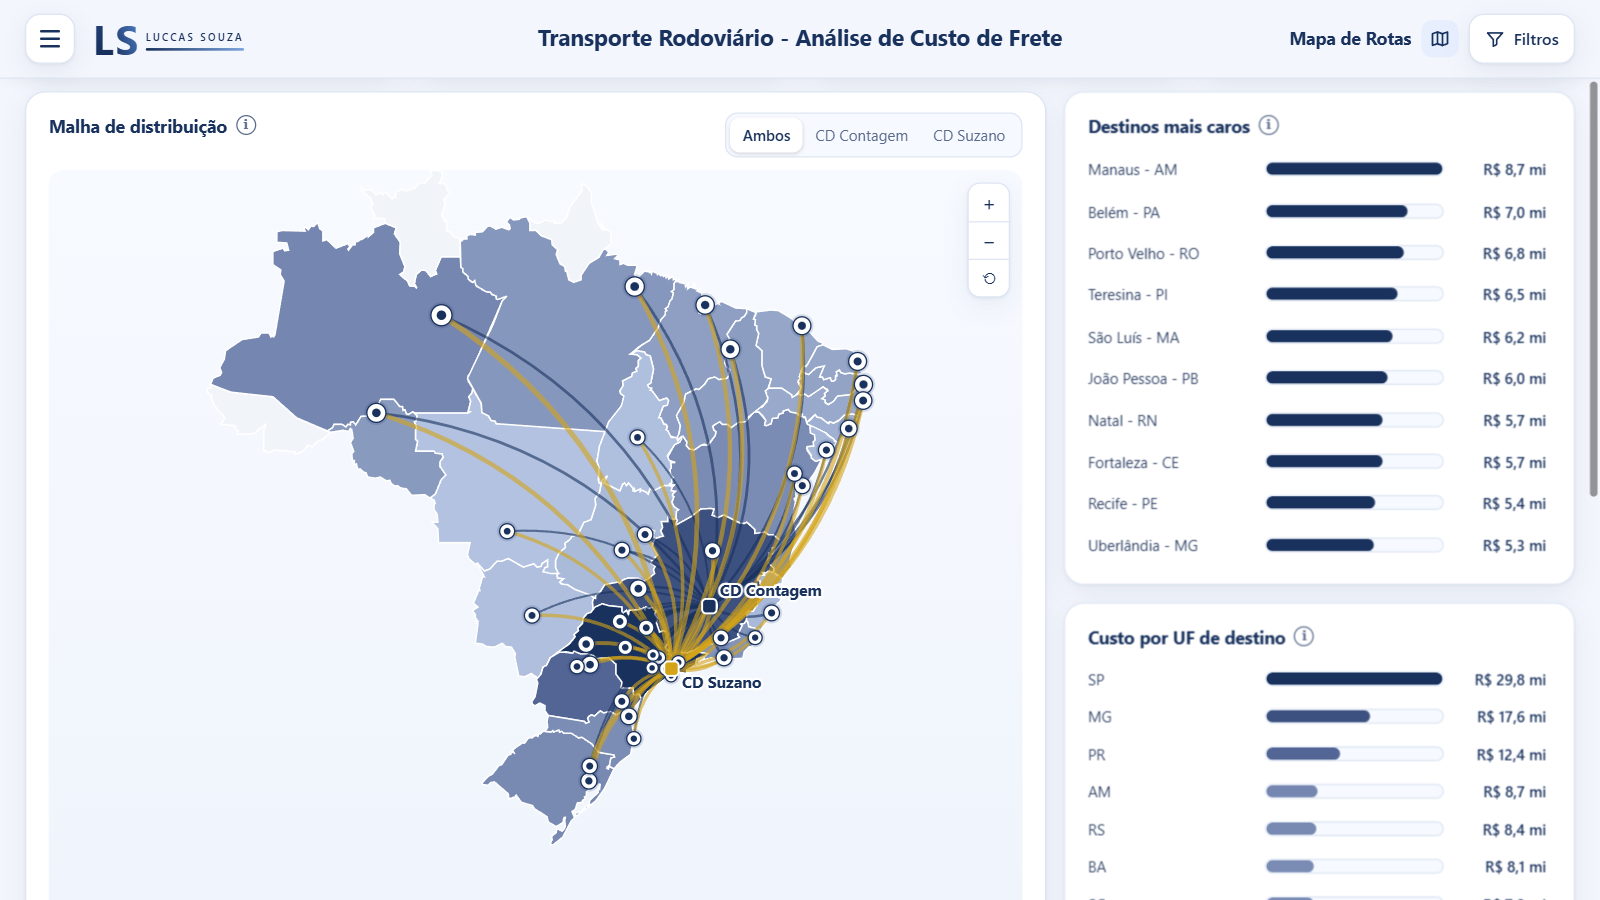
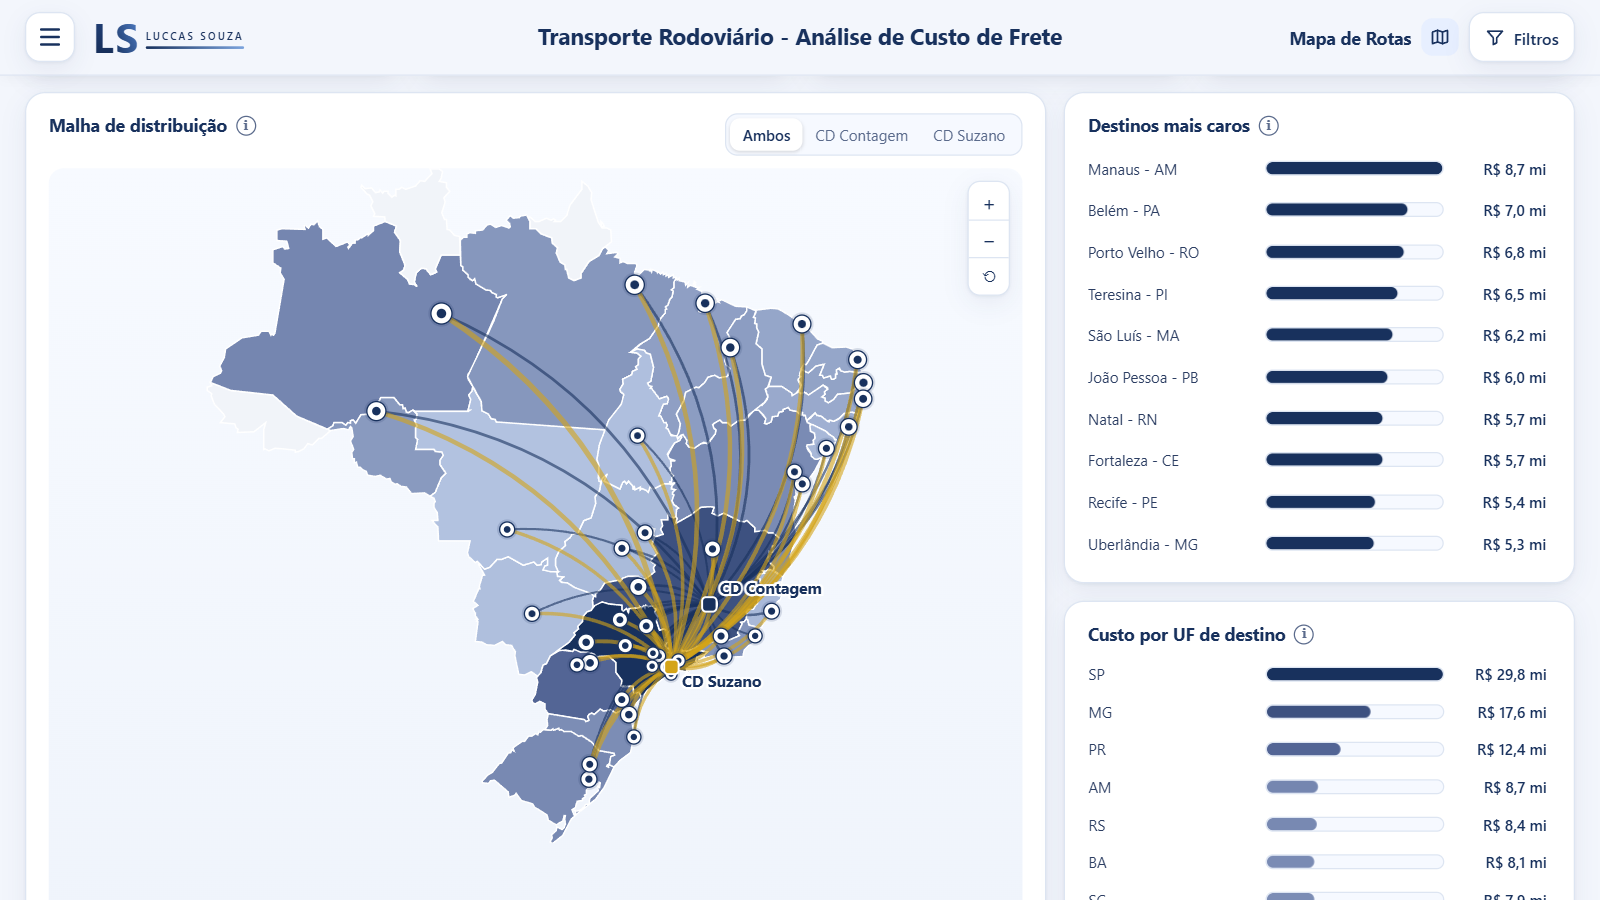
Add files via upload

diff --git a/README.md b/README.md
@@ -79,7 +79,7 @@ Com o denominador corrigido, o custo dela sobe de R$ 4,34 para R$ 6,05 por km ca
 R$ 8,77 do contratado. A vantagem cai de 102% para 44,9%, menos da metade do que a conta pelo km
 rodado indica. Uma decisão de investimento em frota deve partir do valor corrigido.
 
-![Frota e ociosidade: a comparação ingênua (102%) contra a comparação justa (44,9%)](frota_ociosidade.png)
+![Frota e ociosidade: diferença de custo pelo km rodado (102%) e pelo km carregado (44,9%)](frota_ociosidade.png)
 
 ### Quanto custa rodar vazio
 
